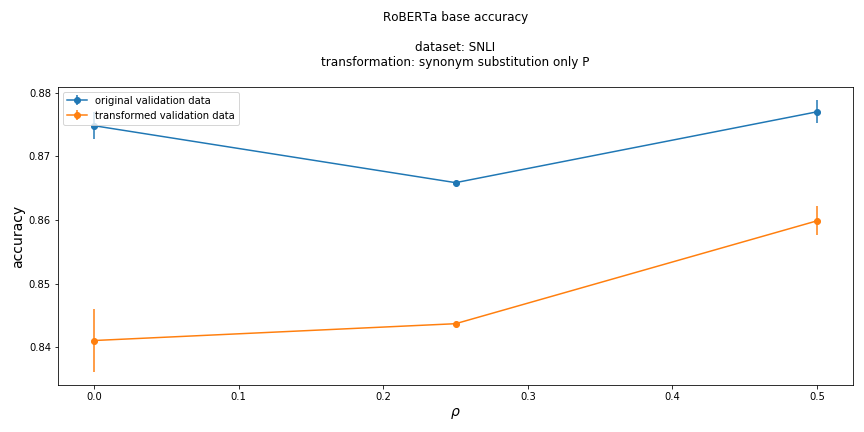
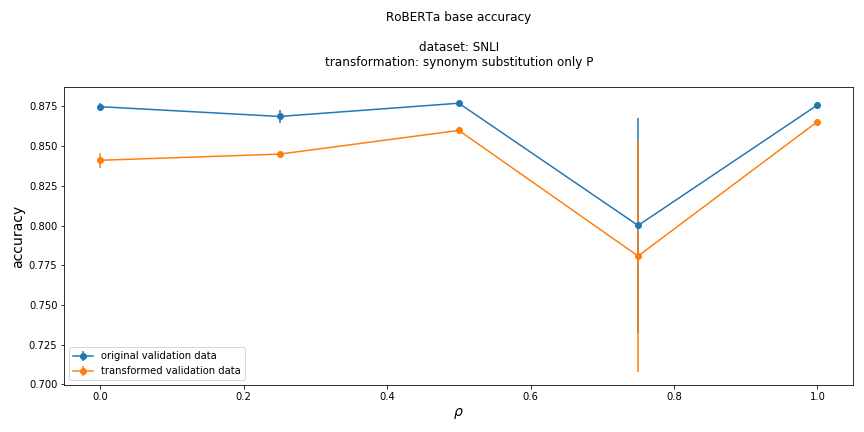
add script for only h

diff --git a/src/wordnet_syn_test_roberta.py b/src/wordnet_syn_test_roberta.py
@@ -18,17 +18,19 @@ def run_test(rho, dgp_seed, random_state, n_cores):
 
     # Variables
     folder = "snli"
-    result_folder = "results/snli/roberta_base/sin_p/"
+    # result_folder = "results/snli/roberta_base/sin_p/"
+    result_folder = "results/snli/roberta_base/sin_h/"
+    
 
     # transformation_name = "wordnet sin tranformation p and h"
-    transformation_name = "wordnet sin tranformation p"
-    # transformation_name = "wordnet sin tranformation h"
+    # transformation_name = "wordnet sin tranformation p"
+    transformation_name = "wordnet sin tranformation h"
 
     name = "rho_{:.2f}_dgp_seed_{}_random_state_{}".format(
         rho, dgp_seed, random_state)
     name = name.replace(".", "p")
     # output_dir_name = "roberta_base_p_h_" + name
-    output_dir_name = "roberta_base_p_" + name
+    output_dir_name = "roberta_base_h_" + name
 
     # Data
 
@@ -49,11 +51,11 @@ def run_test(rho, dgp_seed, random_state, n_cores):
     # def train_trans(df): return path_base_transformation(df, train_path_mod)
     # def dev_trans(df): return path_base_transformation(df, dev_path_mod)
 
-    def train_trans(df): return path_base_transformation_p(df, train_path_mod)
-    def dev_trans(df): return path_base_transformation_p(df, dev_path_mod)
+    # def train_trans(df): return path_base_transformation_p(df, train_path_mod)
+    # def dev_trans(df): return path_base_transformation_p(df, dev_path_mod)
 
-    # def train_trans(df): return path_base_transformation_h(df, train_path_mod)
-    # def dev_trans(df): return path_base_transformation_h(df, dev_path_mod)
+    def train_trans(df): return path_base_transformation_h(df, train_path_mod)
+    def dev_trans(df): return path_base_transformation_h(df, dev_path_mod)
 
     print("transform dev")
     dev_t = dev_trans(dev_o)
